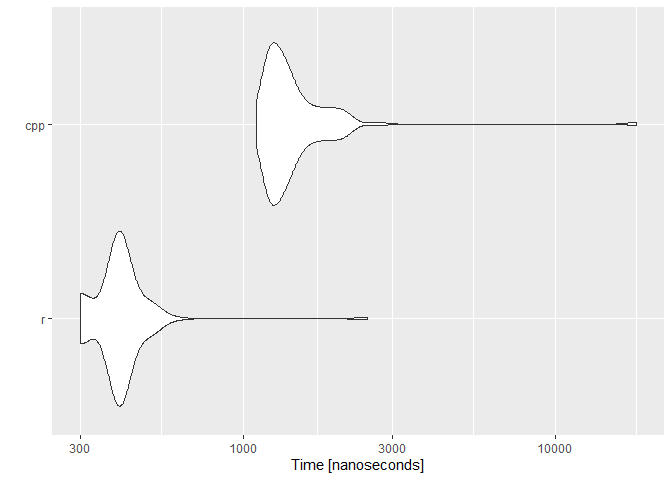
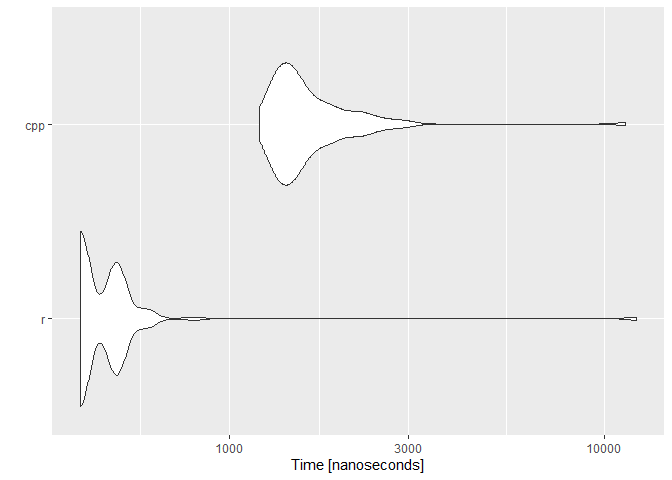
Update README file

diff --git a/README.md b/README.md
@@ -1,17 +1,174 @@
 A tutorial for creating a R package and publish to GitHub
 ================
 
-## Documentation
+## 1 Requirements
 
-## Installing the ‘mypackage’ package
+To reconstruct this tutorial, download and install the latest version of
+R(4.0.3), RStudio(1.4.1103), GitHub Desktop(2.6.2), `devtools`(2.3.2),
+`Rcpp`(1.0.6), `RcppArmadillo`(0.10.1.2.2 ), `microbenchmark`(1.4-7),
+`rmarkdown`(2.6).
 
-Install the development version using **devtools** package:
+## 2 Instructions of creating a R package using RStudio
+
+#### 2.1 Create a new project in RStudio
+
+In the **File** menu, click on **New Project**. Then select **New
+Directory** and **R Package using RcppArmadillo** to create a new R
+package with built-in examples for C++ scripts incorporating Armadillo
+library. Type the name of your package and choose the directory of this
+project on your device. Click **Create project**.
+![](Rmd_figures/RStudio_NewProj_01.png)<!-- -->![](Rmd_figures/RStudio_NewProj_02.png)<!-- -->![](Rmd_figures/RStudio_NewProj_03.png)<!-- -->
+
+#### 2.2 Essential files/folders for a R package
+
+On the lower right hand side of your screen, you should see the
+directory, under the **Files** tab, of the project that you just
+created.</br> The **R** folder contains the R scripts for your
+package.</br> The **src** folder contains the C++ scripts to be compiled
+for your package.</br> The **man** folder saves the help/manual files
+for each function in your package, and you can edit them after you
+compile the package for the first time.</br> The **DESCRIPTION** file
+contains basic description of your package.</br>
+![](Rmd_figures/RStudio_InitialFiles.png)<!-- -->
+
+#### 2.3 Compile your package
+
+For illustrative purpose, you can write a simple R function such as
+
+``` r
+add_one <- function(x){x+1}
+```
+
+and save the R script file `myfunc.R` to **R** folder.
+![](Rmd_figures/RStudio_RFunc.png)<!-- --> To create a C++ script file,
+under the **File** menu, click **New File** then **C++ File**. Delete or
+comment the R code block at the end of the template. Change the first
+two lines to
+`{c++ RcppFunc header, eval=FALSE} #include <RcppArmadillo.h> // [[Rcpp::depends(RcppArmadillo)]] using namespace Rcpp;`
+and write a simple function like
+`{c++ RcppFunc, eval=FALSE} // [[Rcpp::export]] double add_one_cpp(const double& x) {   return x+1.0; }`
+and save the C++ script file `myfunc_cpp.cpp` to **src** folder.
+![](Rmd_figures/RStudio_RcppFunc.png)<!-- --> If you want to test the
+C++ function before compiling the package, in R console, run
+
+``` r
+library(Rcpp)
+sourceCpp("src/myfunc_cpp.cpp")
+add_one_cpp(3) # should return 4 in this example
+```
+
+More examples of Armadillo, Rcpp, and RcppArmadillo can be found at
+[Armadillo library](http://arma.sourceforge.net/docs.html#syntax),
+[Writing R code in C++](https://adv-r.hadley.nz/rcpp.html),
+[RcppArmadillo
+package](https://cran.r-project.org/web/packages/RcppArmadillo/index.html).</br>
+Open the **DESCRIPTION** file, modify/add Title, Version, Date, Author,
+Maintainer, Description, License, URL, BugReports, and other useful
+information. All the information can be viewed by running
+`?yourpackagename` in R console.
+![](Rmd_figures/RStudio_Description.png)<!-- --> Finally, you can
+compile the package by, in the **Build** menu, clicking **Install and
+Restart**, and you need to always use this option when you want
+re-compile the package. ![](Rmd_figures/RStudio_Compile.png)<!-- -->
+
+#### 2.4 Modify help files/user manuals
+
+Once you compile the package, you will find help files/user
+manuals(**.Rd** files) for each function and the package under **man**
+folder. You need to modify them before publishing the package.</br>
+First of all, open **yourpackagename-package.Rd**, delete or comment all
+the texts surrounded by `~~`. Otherwise, they will cause errors when
+other users install your package from GitHub. Other fields in this file
+are mainly inherited from the **DESCRIPTION** file, so you can keep them
+unchanged. ![](Rmd_figures/RStudio_PackageRd.png)<!-- --> Next, open
+**.Rd** files for each function, delete or comment texts surrounded by
+`~~`, provide title, description, item, examples, and other useful
+information. The information in these files can be viewed by running
+`?functionname` in R console.
+![](Rmd_figures/RStudio_FuncRd.png)<!-- -->
+
+#### 2.5 Write a README file
+
+A README file is highly commended to help other users understand your
+package. However, using the basic **Markdown** syntax to write such file
+is painful since the difficulties in inserting math symbols and
+controlling for layouts. Fortunately, RStudio provides a R Markdown
+template for GitHub documents. In addition, after you knit the R
+Markdown file, a GitHub Markdown file will be automatically generated
+and it can be used on GitHub without any change.</br> To create a R
+Markdown file, in the **File** menu, click **New File** then **R
+Markdown**. In the new window, choose **From Template** and **GitHub
+Document (Markdown)**. ![](Rmd_figures/RStudio_CreateRmd.png)<!-- -->
+Once you finish editing the R Markdown file, save it as **README.Rmd**
+under the main directory and knit the file. Then you will see the
+**README.md** file in the main directory.</br> Some examples of R
+Markdown and Markdown syntax can be found on [R Markdown cheat
+sheet](https://raw.githubusercontent.com/rstudio/cheatsheets/master/rmarkdown-2.0.pdf)
+and [Markdown demo](markdown-it.github.io).
+
+#### 2.6 Connect to GitHub: commit, push, pull
+
+Now, you can set up a git repository and add it to the project. In the
+**Tools** menu, click on **Project Options**. Then select **Git/SVN**
+and change the **version control system** from (None) to Git. Click
+**OK** to initialize a new Git repository.
+![](Rmd_figures/RStudio_GitRepo.png)<!-- --> Open GitHub Desktop, in the
+**File** menu, click **Add local repository**. Type the repository name
+on GitHub, select the visibility of repository, and publish the
+repository. ![](Rmd_figures/github_PublishRepo.png)<!-- -->
+
+Next step is to commit your changes. To do so, click **Git** tab in top
+right panel, and then click the **commit** option. </br> Then select the
+changes you want to commit. ‘A’ in a green box means a new file, which
+was not in the last commit. ‘D’ in a red box means a file that has been
+deleted from the last commit. ‘M’ in a blue box means a file from the
+last commit, but its content has been modified. Using ‘Ctrl+A’ could
+select all the changes.</br> Once you have selected the changes, write
+some descriptions to the **Commit message** window and then click
+**Commit**. If you want to keep your commit history be concise, you can
+check the **Amend previous commit** option to combine multiple commits
+that have not been pushed to GitHub.
+![](Rmd_figures/RStudio_Commit_01.png)<!-- -->![](Rmd_figures/RStudio_Commit_02.png)<!-- -->
+
+Push your commits to GitHub and pull the latest commits from GitHub can
+be easily done by clicking the **Push** button and **Pull** button in
+the **Review Changes** window.
+![](Rmd_figures/RStudio_PushPull.png)<!-- -->
+
+Sometime you do not find mistakes immediately, and you need to look
+backwards in history and find out where they occurred. You can use the
+**Review Changes** window again to access the history of commits. If you
+click one previous commit, the changes, with file names, made by this
+commit will de displayed at the bottom of the window. Then you can click
+**Vile file @ SHA** to view the original files and find them back.
+![](Rmd_figures/RStudio_Undo_01.png)<!-- -->![](Rmd_figures/RStudio_Undo_02.png)<!-- -->
+
+More details and operations of publishing a R package to GitHub can be
+found in book [R Packages](https://r-pkgs.org/git.html#git-ignore)
+
+#### 2.7 Add a license
+
+If you worry about the intellectual property of the package, you can add
+a license to your repository on GitHub.</br> Firstly, go to your GitHub
+repository. In the **Add file** menu, click **Create new file**. Type
+‘LiCENSE’ in the blank, and then the **Choose a license template**
+button will pop out. Click this button, select a type of license that
+meets your requirements, make sure the full name is correct, and submit.
+Lastly, you need to make a commit for this file.</br>
+![](Rmd_figures/github_AddLicense_01.png)<!-- -->![](Rmd_figures/github_AddLicense_02.png)<!-- -->![](Rmd_figures/github_AddLicense_03.png)<!-- -->
+In most cases, **Apache**, **GNU**, or **MIT** license are good choices.
+If you need more information to select the license, you can refer to
+[GitHub
+Docs](https://docs.github.com/en/github/creating-cloning-and-archiving-repositories/licensing-a-repository)
+and [choosealicense.com](https://choosealicense.com/).
+
+## 3 Install and load the ‘mypackage’ package
+
+Install the development version using `devtools` package:
 
 ``` r
 devtools::install_github("jitonglou/mypackage")
 ```
-
-## Quick usage overview
 
 Load the package:
 
@@ -19,7 +176,7 @@ Load the package:
 library(mypackage)
 ```
 
-### Call functions in the package
+#### 3.1 Call functions in the package
 
 ``` r
 add_one(1.5)
@@ -33,7 +190,7 @@ add_one_cpp(1.5)
 
     ## [1] 2.5
 
-### Benchmark functions
+#### 3.2 Benchmark functions
 
 There are at least five functions/packages for measuring the running
 time of R code (`Sys.time` and `system.time`) or benchmarking R code
@@ -60,9 +217,9 @@ mbm
 ```
 
     ## Unit: nanoseconds
-    ##  expr  min   lq    mean median   uq   max neval cld
-    ##     r  300  401  416.97    401  401  2501   100  a 
-    ##   cpp 1101 1201 1606.03   1301 1502 18302   100   b
+    ##  expr  min   lq mean median   uq   max neval cld
+    ##     r  400  400  570    400  500 12200   100  a 
+    ##   cpp 1200 1400 1732   1500 1800 11400   100   b
 
 I used the function argument `check` to check for equality (up to a
 maximal error of `1e-8`) of the results returned by the two functions.
@@ -79,3 +236,12 @@ autoplot(mbm)
 
 In this case, the function coded in C++ is slower than the default
 addition operation in R.
+
+## Reference
+
+1.  Kim IS, Martin P, McMurry N, and Halterman A. [*Instructions for
+    Creating Your Own R
+    Package*.](http://web.mit.edu/insong/www/pdf/rpackage_instructions.pdf) 2018.
+    </br>
+2.  Wickham H and Bryan J. [*R
+    Packages*.](https://r-pkgs.org/index.html) 2019.
